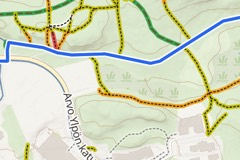
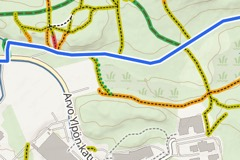
Clearer roads and buildings on the Trail map (#1114)
## Summary

Roads and flat buildings are easier to distinguish on the existing Trail
map. Forest, field and water colours stay the same.

```diff
 Trail map
+ Stronger building fill and outline
+ Clearer road edges and modest intermediate-zoom minor/service widths
+ Clearer cycleway blue, retaining sport dimming
+ Updated existing Trail map thumbnail
```

Other basemaps, terrain fills, route/difficulty colours and 3D building
extrusions retain their appearance. Gravel/Road keep their warm
unpaved-road emphasis and existing casing factors. This adds no map
option or setting.

Compared with the accepted mockup, this PR implements its contrast
treatment. MTB 0−/S0 is a separate change, and cycling surface
dashes/access semantics and additional terrain objects are later work.

Fixes #1113.

## Evidence

- Baseline `python3 tools/smoke.py layers trails` passed on `313129f`.
- A browser comparison of 140 base/sport/contrast/3D combinations found
changes only in the approved Trail-map paint properties; sources,
filters, layer order, route/difficulty layers and 3D extrusions were
unchanged.
- `node --check js/style.js` and `git diff --check` passed.
- Independent source review found no actionable issues.
- Final `POLKU_URL=http://localhost:8773/ python3 tools/smoke.py layers
trails colours changelog` passed on
`db282380b8d8627f949b493e4330a0946fbde023`: changelog, all sports'
layers, trail details/card, late uphill colors, all route color
[…]

diff --git a/js/style.js b/js/style.js
@@ -300,7 +300,7 @@ export function buildStyle(s, ctx) {
 
   // ---- Buildings ----------------------------------------------------------
   if (vectorFills) {
-    add({ id: 'building', type: 'fill', source: 'ofm', 'source-layer': 'building', minzoom: 13, paint: { 'fill-color': P.building, 'fill-outline-color': P.buildingLine, 'fill-opacity': zi(13, 0.5, 15, 1) } });
+    add({ id: 'building', type: 'fill', source: 'ofm', 'source-layer': 'building', minzoom: 13, paint: { 'fill-color': s.base === 'trail' ? '#bdb8b0' : P.building, 'fill-outline-color': s.base === 'trail' ? '#918b81' : P.buildingLine, 'fill-opacity': zi(13, 0.5, 15, 1) } });
     add({ id: 'aeroway', type: 'line', source: 'ofm', 'source-layer': 'aeroway', minzoom: 11, filter: ['in', ['get', 'class'], ['literal', ['runway', 'taxiway']]], paint: { 'line-color': '#c9c6c0', 'line-width': ze(1.5, 11, 1, 16, 30) } });
   }
   // the hills' shadows, and the trees' and buildings' (js/shadows.js, #919) from zoom 14: over water, fields and roofs
@@ -752,6 +752,8 @@ function addRoads(s, P, hc, layers, ctx) {
   const plainHalo = darkBase ? 'rgba(0,0,0,0.5)' : 'rgba(255,255,255,0.85)';
   const roadsDim = isWater(act) ? 0.55 : 1;
   const k = hc ? 1.35 : 1;
+  const trail = s.base === 'trail';
+  const roadCase = trail ? '#817a6d' : P.roadCase;
 
   const roadStops = {
     motorway: [6, 0.8, 12, 3, 18, 22],
@@ -759,8 +761,8 @@ function addRoads(s, P, hc, layers, ctx) {
     primary: [7, 0.5, 12, 2.2, 18, 18],
     secondary: [8, 0.4, 12, 1.8, 18, 16],
     tertiary: [9, 0.4, 12, 1.4, 18, 14],
-    minor: [11, 0.3, 14, 1.8, 18, 11],
-    service: [13, 0.3, 15, 1.4, 18, 7],
+    minor: [11, 0.3, 14, trail ? 2.2 : 1.8, 18, 11],
+    service: [13, 0.3, 15, trail ? 1.6 : 1.4, 18, 7],
   };
   // Zoom expressions can't be wrapped in arithmetic, so scale each stop instead.
   const roadW = (cls, f = 1) =>
@@ -792,14 +794,16 @@ function addRoads(s, P, hc, layers, ctx) {
     // casings
     for (const cls of ['service', 'minor', 'tertiary', 'secondary', 'primary', 'trunk', 'motorway']) {
       if (aerial && (cls === 'service')) continue;
-      const casingColor = gravel ? ['case', unpaved, '#c4842d', P.roadCase] : P.roadCase;
+      const casingColor = gravel ? ['case', unpaved, '#c4842d', roadCase] : roadCase;
       add({
         id: `road-${brunnel}-${cls}-casing`, type: 'line', source: 'ofm', 'source-layer': 'transportation', minzoom: roadMin[cls],
         filter: ['all', ['==', ['get', 'class'], cls], bf],
         layout: { 'line-join': 'round', 'line-cap': brunnel === 'ground' ? 'round' : 'butt' },
         paint: {
           'line-color': aerial ? 'rgba(0,0,0,0.5)' : casingColor,
-          'line-width': gravel && cls !== 'motorway' && cls !== 'trunk'
+          'line-width': trail && !gravel && cls === 'minor' ? ze(1.4, 11, 0.6, 14, 3.6, 18, 14.85)
+            : trail && !gravel && cls === 'service' ? ze(1.4, 13, 0.6, 15, 2.7, 18, 9.45)
+            : gravel && cls !== 'motorway' && cls !== 'trunk'
             ? roadW(cls, ['case', unpaved, 2.5, 1.35])
             : roadW(cls, 1.35),
           'line-opacity': zi(roadMin[cls], 0, roadMin[cls] + 0.5, mmlBase ? 0 : op),
@@ -931,10 +935,10 @@ function addRoads(s, P, hc, layers, ctx) {
       id: `cycleway-${brunnel}`, type: 'line', source: 'ofm', 'source-layer': 'transportation', minzoom: 12,
       filter: ['all', isPathClass, ['in', ['get', 'subclass'], ['literal', ['cycleway', 'pedestrian']]], bf],
       paint: {
-        'line-color': aerial ? '#bfe0ff' : P.cycleway,
+        'line-color': aerial ? '#bfe0ff' : trail ? '#426f99' : P.cycleway,
         // road cycling: cycleways are where you ride, so they stand out
         'line-width': zi(12, 0.6, 15, 1.6 * k * (roadBike ? 1.5 : 1), 18, 3.5 * k * (roadBike ? 1.4 : 1)),
-        'line-opacity': 0.85 * roadsDim,
+        'line-opacity': (trail ? 0.95 : 0.85) * roadsDim,
       },
     });
   }

diff --git a/DESIGN.md b/DESIGN.md
@@ -188,6 +188,8 @@ This file holds the tokens: colours, type, shapes, spacing, depth and motion. **
 
 A quiet, cool green-grey interface with one forest-green accent, so that the map and the route line hold the colour. The names below are the CSS variables in `css/app.css` (`--accent`, `--route`…); dark mode redefines the same variables, listed in the frontmatter with a `dark-` prefix.
 
+The Trail map keeps its pale terrain fills, with stronger road edges and flat building outlines so streets, trails and buildings can be read together. Minor and service roads widen modestly at intermediate zooms; cycling sports retain the warm unpaved-road emphasis. Other basemaps, 3D building colours and difficulty scales keep their own appearance.
+
 ### Primary
 - **Accent (forest green)**: links, the chosen chip's border, the chosen switch's icon, ticks and the active state of map buttons. In dark mode a lighter green, so it still reads on dark surfaces.
 - **Focus (green)**: the focus ring, on every control: the accent's green in light mode and a lighter one in dark.

diff --git a/CHANGELOG.md b/CHANGELOG.md
@@ -4,6 +4,10 @@ What's new in [Polku](https://polku.si), from the latest updates back to the fir
 
 ## 2026-11-19
 
+### Clearer roads and buildings ([#1113](https://github.com/TommiContursi/Polku/issues/1113))
+
+- Roads, cycleways and buildings stand out more clearly on the **Trail map**, with stronger edges and slightly wider minor and service roads at intermediate zooms. Forest, field and water colours stay the same.
+
 ### Polku opens on a bad connection ([#419](https://github.com/TommiContursi/Polku/issues/419), [#481](https://github.com/TommiContursi/Polku/issues/481))
 
 - When one of the map's tiles doesn't arrive as Polku opens, your saved route, a shared route and the planner you left open still come back, at most a few seconds after the map appears, and a shared spot's card a few seconds after that. Before, they waited for every tile of the map, so on a bad connection, or while Traficom's depth maps were slow, they could stay away until you moved the map.
